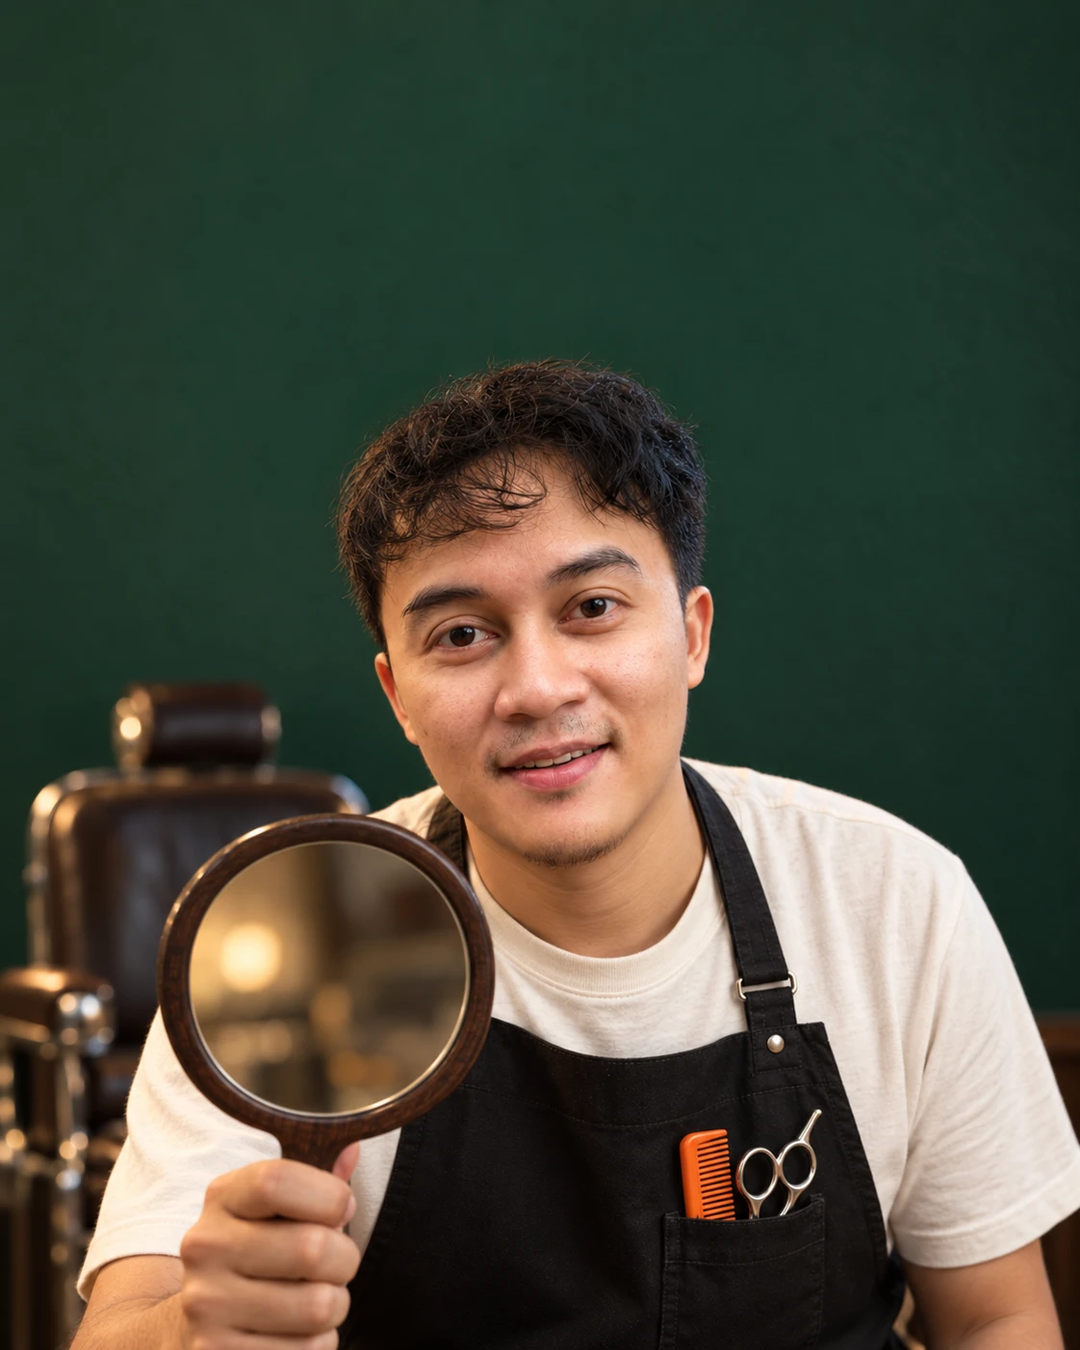
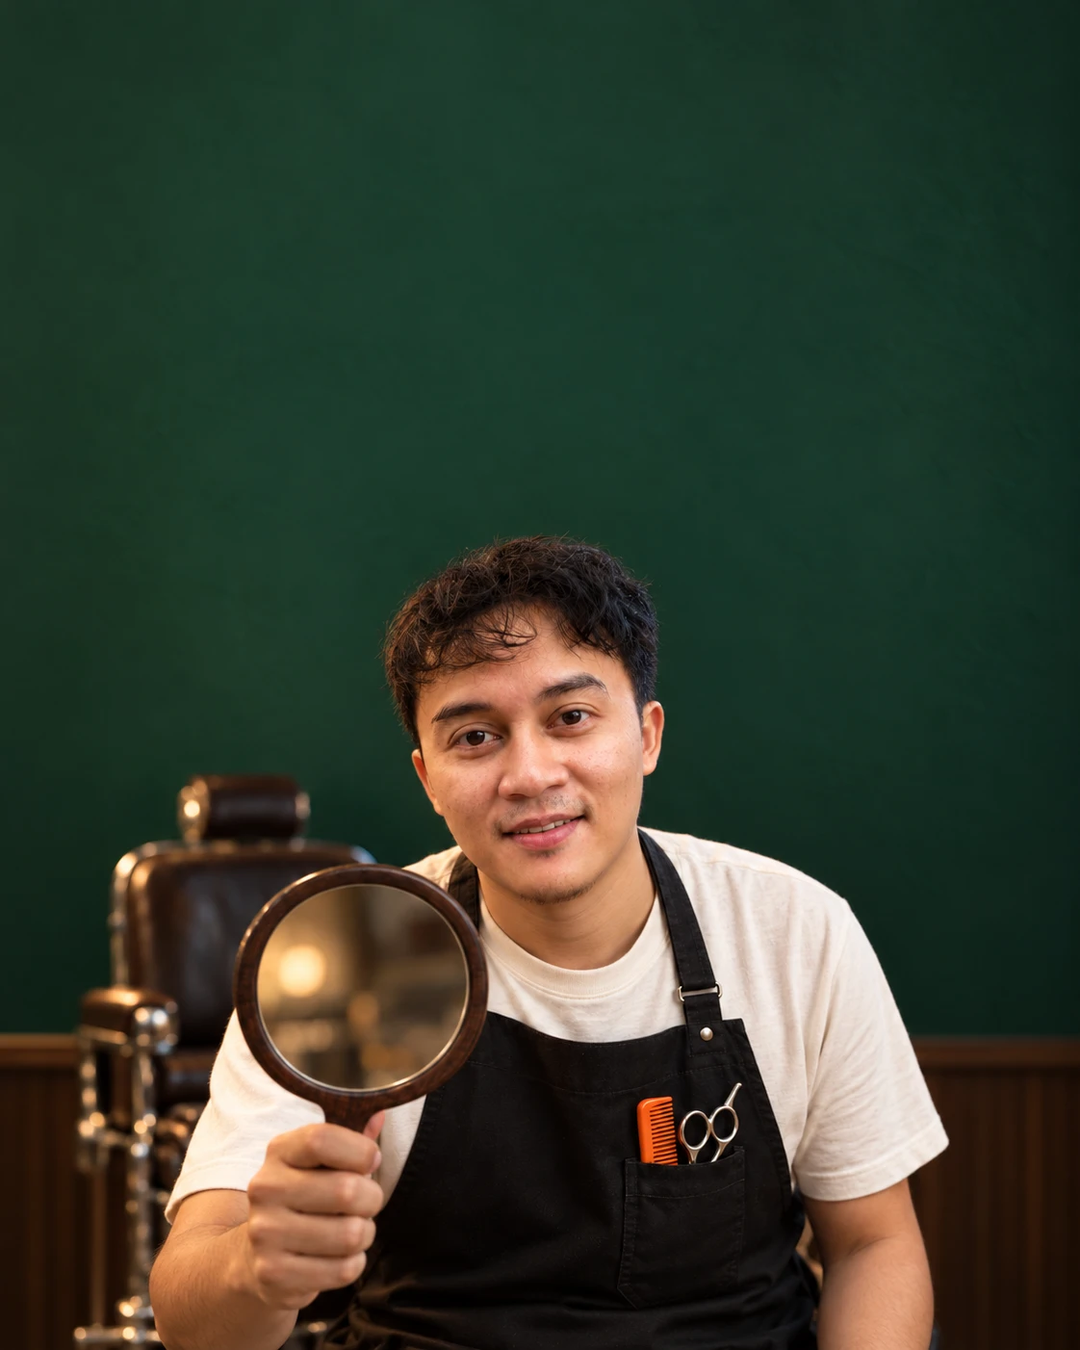
Fondasi AI #3: gambar slide CTA versi 2
Claude-Session: https://claude.ai/code/session_01QXMfvBEFE691HNg9AS2CFR

diff --git a/konten/2026-10-27-fondasi-ai-03/4-slide-plan.md b/konten/2026-10-27-fondasi-ai-03/4-slide-plan.md
@@ -24,3 +24,7 @@ Keputusan Irsyad: cover versi 1 dipakai. Prompt gambar slide CTA ditulis di `3b-
 ## Gambar slide CTA (versi 1, dari Irsyad)
 
 Disimpan sebagai `assets/cta.png`. Tanpa teks (sesuai rencana), adegan, baju, cahaya dan latar sama dengan cover; cermin hanya memantulkan cahaya blur. Kepala lebih tinggi dari yang diminta prompt (puncak rambut di ±29% tinggi frame, bukan 50%), jadi teks CTA dirender lebih kecil: `cta_slide(..., tone="dark", top=96, size=80)`. Baris ajakan sedikit menyentuh ujung rambut, tetap terbaca.
+
+## Gambar slide CTA (versi 2, dipakai)
+
+Generate ulang dengan kamera mundur. Puncak rambut sekarang di ±40% tinggi frame, jadi teks CTA memakai ukuran normal: `cta_slide(..., tone="dark", top=130)`, tidak menyentuh rambut. Ada panel kayu di dinding bawah yang tidak ada di cover; masih satu suasana, dibiarkan. Versi 1 diganti.
